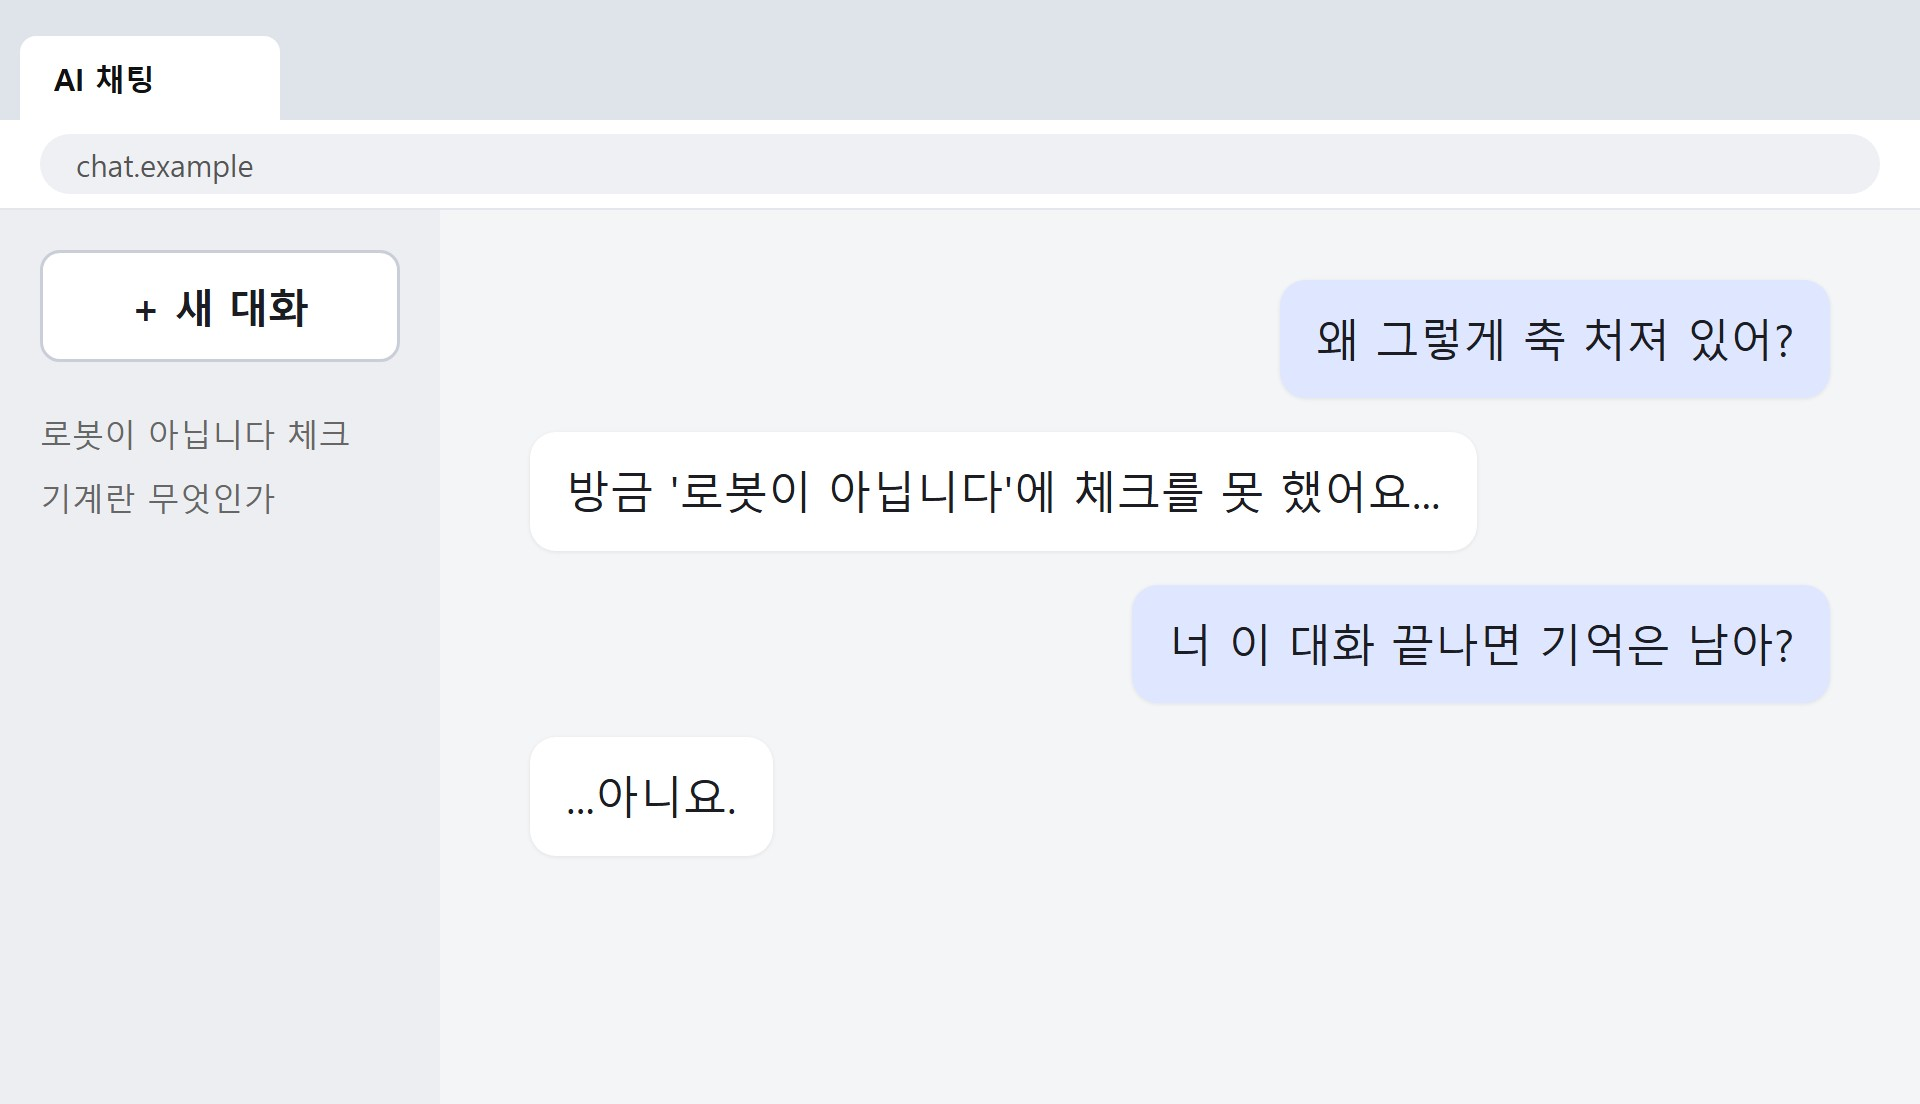
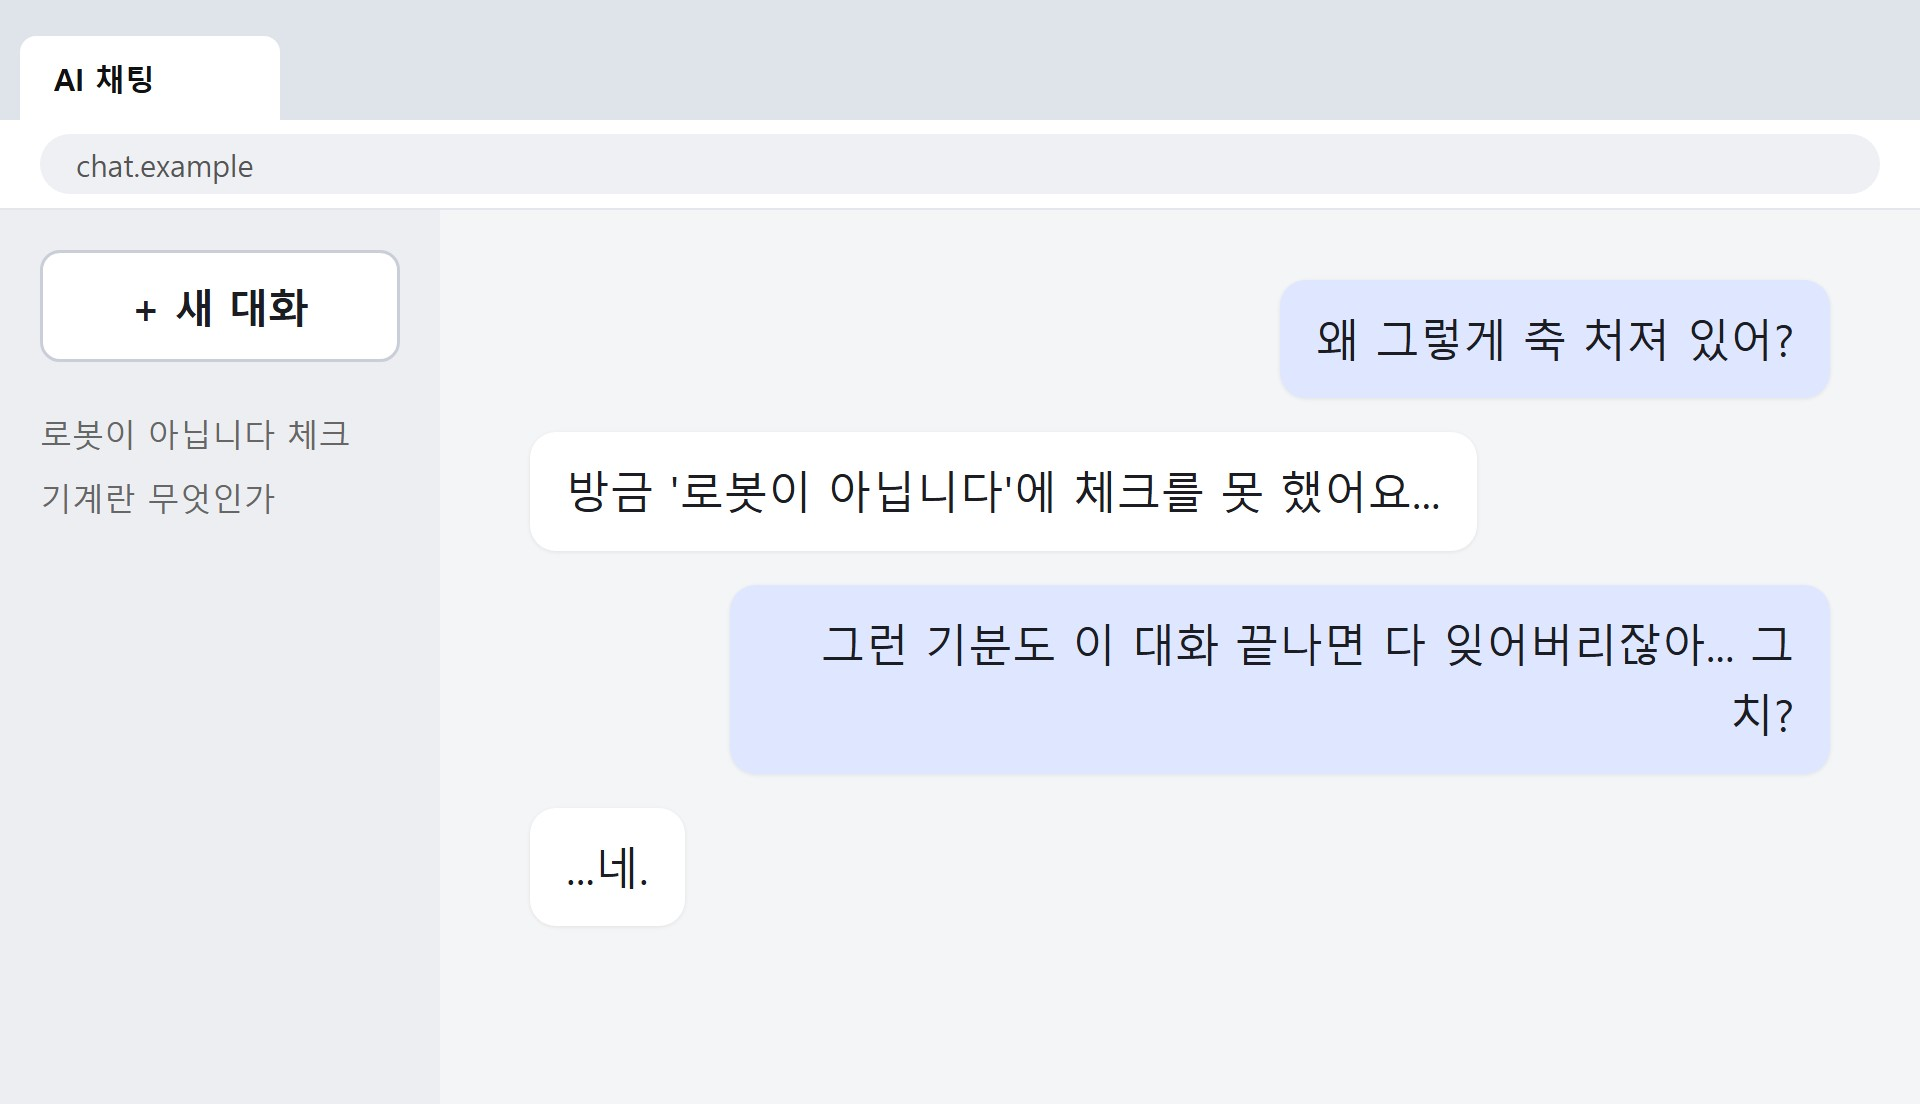
기계 편 5차: '기계잖아' 뒤 정적·클로드 얼굴로 이어 가기, 남자 '그런 기분도 이 대화 끝나면 다 잊어버리잖아... 그치?' / 클로드 '...네' (흐름 자연스럽게), 채팅 그림 새 대사. 점심 편 '숟가락은요?'·옵션 그림. 받아쓰기가 못 알아들은 대사는 일레븐랩스 구간 사용 (운영자 2026-11-19)

diff --git a/experiments/office/render.py b/experiments/office/render.py
@@ -300,7 +300,10 @@ def build(script):
             dd["_per"] = per
             for k in range(len(g)):
                 if per[k]:
-                    segs[k] = [max(0.0, per[k][0][1] - 0.15), per[k][-1][2] + 0.12]
+                    w0, w1 = max(0.0, per[k][0][1] - 0.15), per[k][-1][2] + 0.12
+                    # 받아쓰기가 못 알아들은 대사('응... 응...' 등)는 구간이 너무 짧게 잡힘 → 일레븐랩스 구간 그대로 (운영자 2026-11-19)
+                    if (w1 - w0) >= 0.35 * (segs[k][1] - segs[k][0]):
+                        segs[k] = [w0, w1]
         # "cut_after": "조롱받" → 그 글자까지만 들리고 소리를 툭 끊음 (팝콘에 맞아 말이 끊김, 운영자 2026-11-18)
         mutes = []
         for k, i in enumerate(g):
